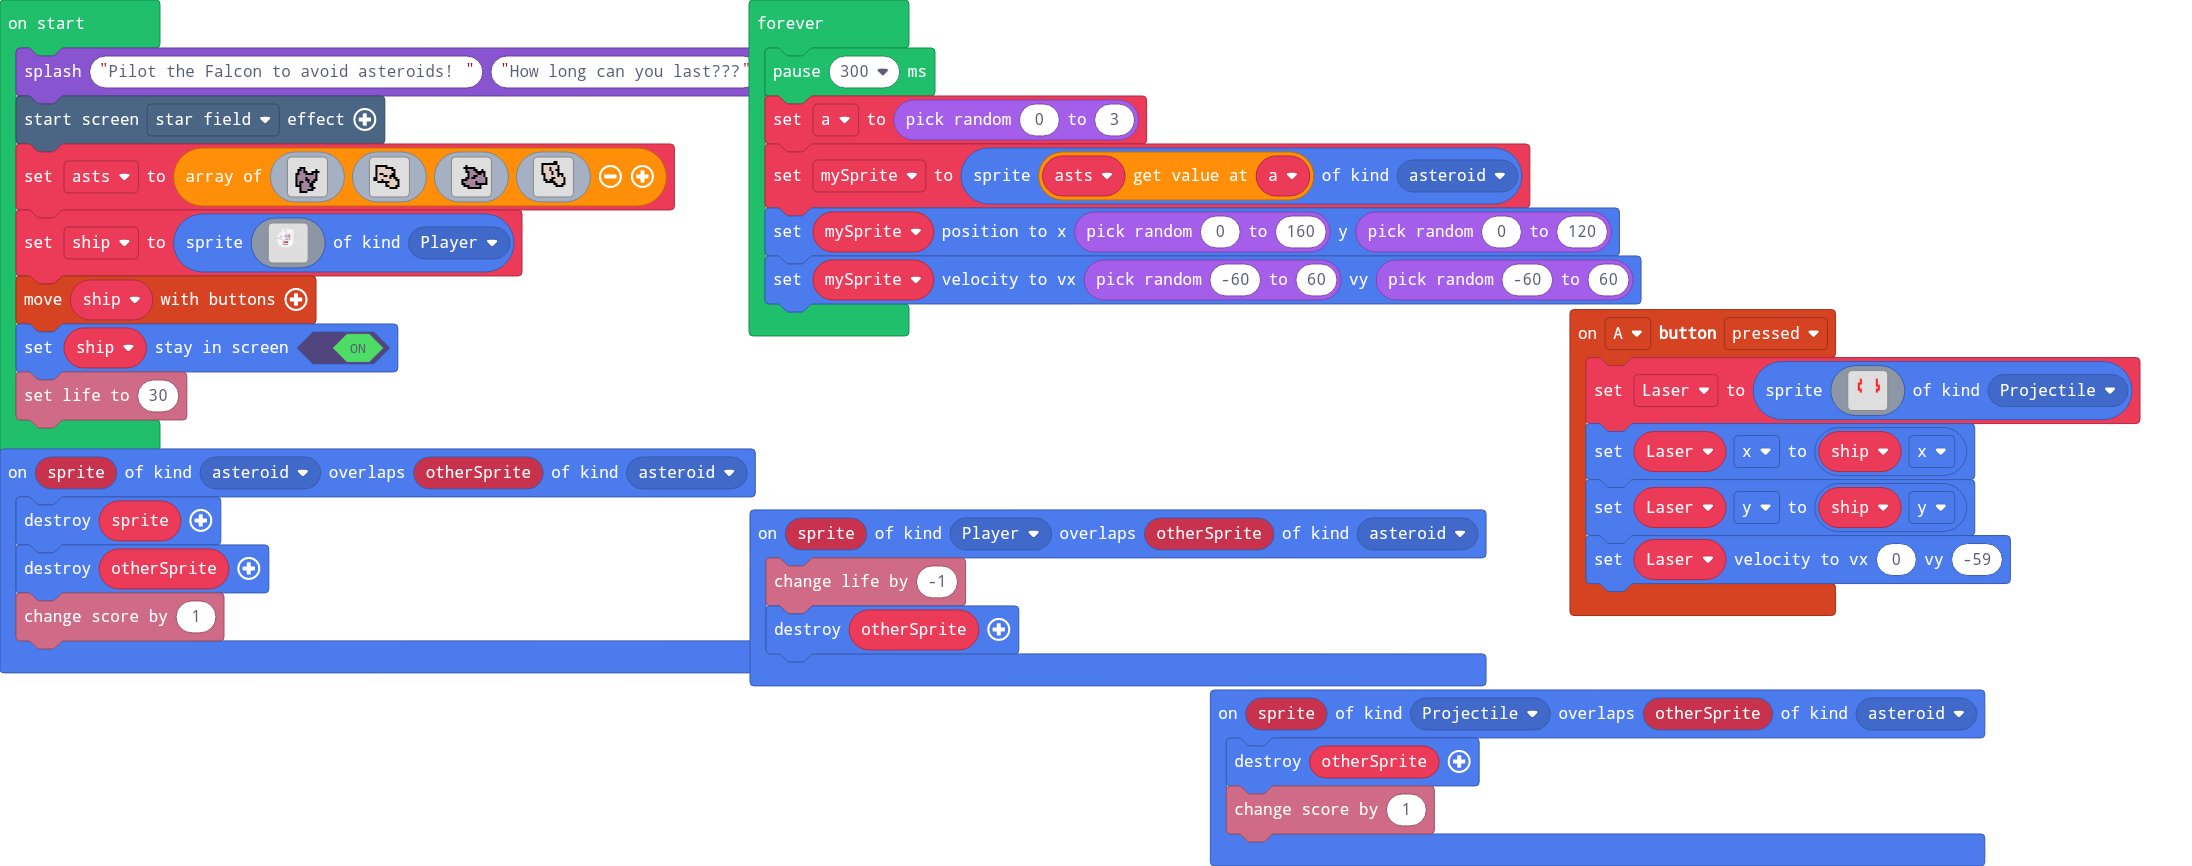
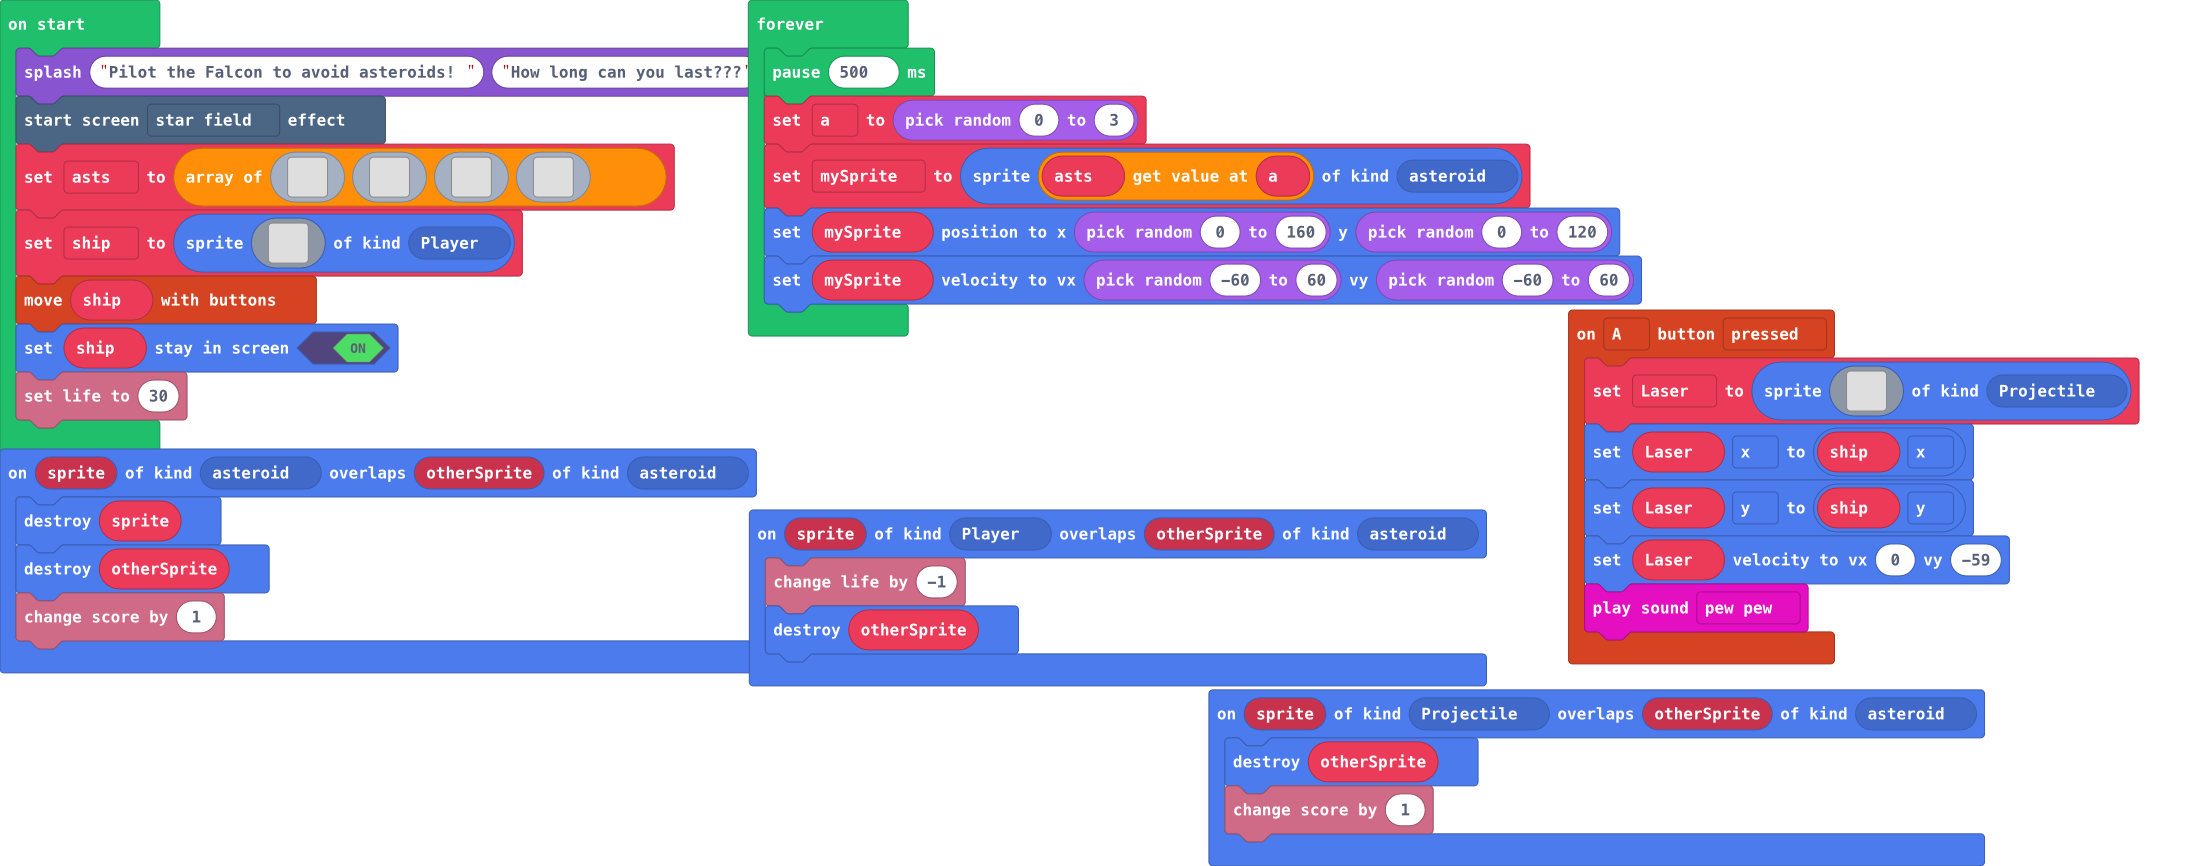
Update main.blocks, main.ts

diff --git a/main.ts b/main.ts
@@ -23,6 +23,7 @@ controller.A.onEvent(ControllerButtonEvent.Pressed, function () {
     Laser.x = ship.x
     Laser.y = ship.y
     Laser.setVelocity(0, -59)
+    music.pewPew.play()
 })
 sprites.onOverlap(SpriteKind.Player, SpriteKind.asteroid, function (sprite, otherSprite) {
     info.changeLifeBy(-1)
@@ -80,7 +81,7 @@ controller.moveSprite(ship)
 ship.setStayInScreen(true)
 info.setLife(30)
 forever(function () {
-    pause(300)
+    pause(500)
     a = randint(0, 3)
     mySprite = sprites.create(asts[a], SpriteKind.asteroid)
     mySprite.setPosition(randint(0, 160), randint(0, 120))
